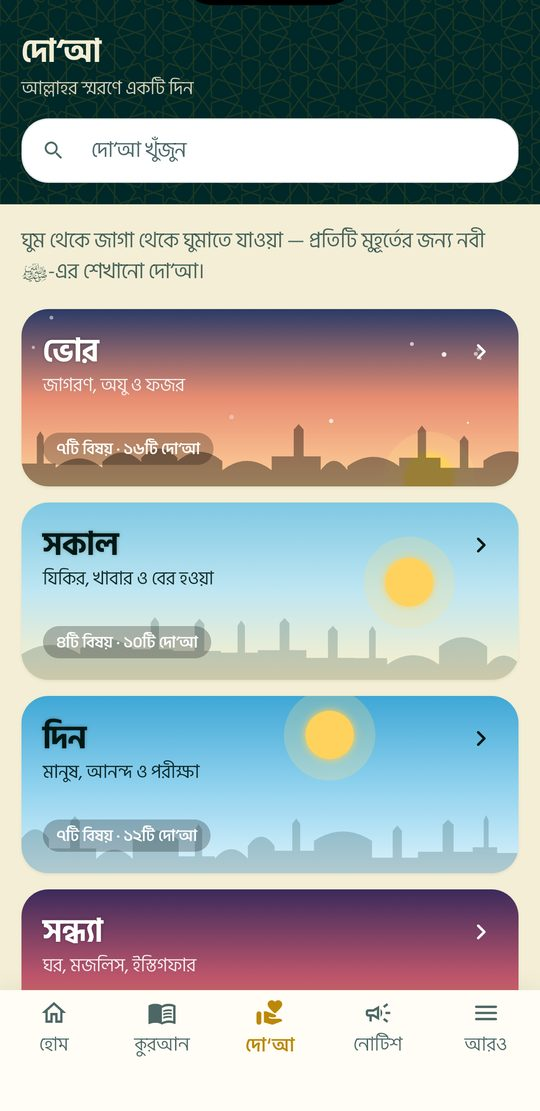
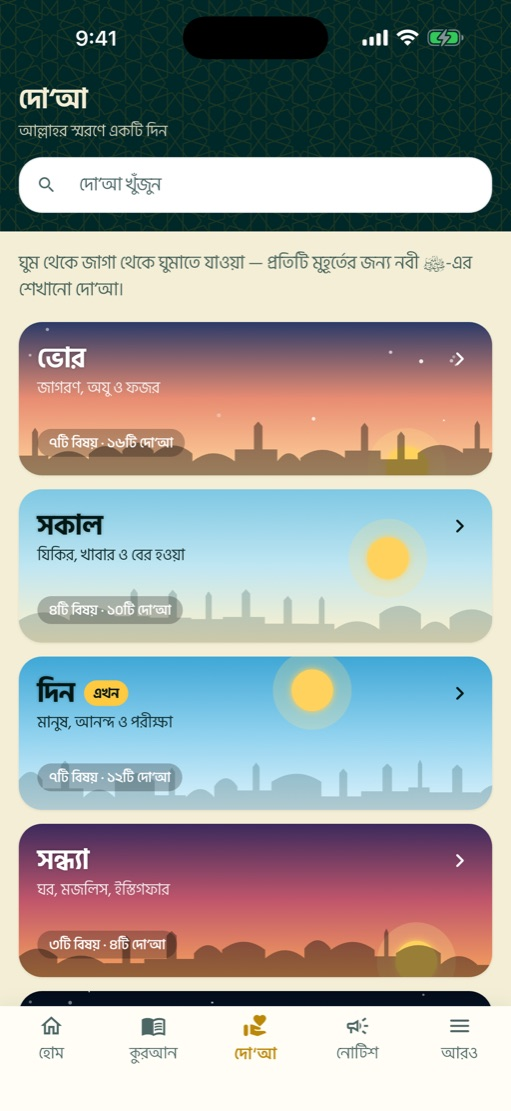
Website: equal-size screenshots, light/dark drag-to-compare section
- Fresh Dua screenshots at the same size as the others; screenshots
  share one aspect ratio so they line up
- 'Light by day, dark by night': one phone, light on the left and dark
  on the right, with a draggable divider (mouse, touch, arrow keys) and
  a short sweep the first time it scrolls into view

diff --git a/docs/index.html b/docs/index.html
@@ -97,7 +97,28 @@
     .shots { display: flex; gap: 22px; justify-content: center; flex-wrap: wrap; }
     .shot { width: 230px; text-align: center; }
     .shot .frame { border-radius: 30px; padding: 8px; background: #0c0c0c; box-shadow: 0 16px 36px rgba(0,40,40,.25); }
-    .shot img { border-radius: 23px; }
+    .shot img { border-radius: 23px; width: 100%; aspect-ratio: 511 / 1111; object-fit: cover; object-position: top; }
+
+    /* ---------- light / dark compare ---------- */
+    .theme-sec { text-align: center; }
+    .compare { position: relative; width: min(330px, 84vw); margin: 0 auto; border-radius: 40px; padding: 10px; background: #0c0c0c;
+      box-shadow: 0 30px 60px rgba(0,40,40,.28); touch-action: pan-y; user-select: none; -webkit-user-select: none; }
+    .compare-view { position: relative; border-radius: 31px; overflow: hidden; aspect-ratio: 511 / 1111; cursor: ew-resize; }
+    .compare-view img { position: absolute; inset: 0; width: 100%; height: 100%; object-fit: cover; object-position: top; pointer-events: none; }
+    .compare-view .dark { clip-path: inset(0 0 0 var(--pos, 50%)); }
+    .compare-bar { position: absolute; top: 0; bottom: 0; left: var(--pos, 50%); width: 3px; margin-left: -1.5px; background: var(--gold-light);
+      box-shadow: 0 0 12px rgba(0,0,0,.35); pointer-events: none; }
+    .compare-knob { position: absolute; top: 50%; left: var(--pos, 50%); width: 52px; height: 52px; margin: -26px 0 0 -26px; border-radius: 50%;
+      background: var(--gold); color: #fff; display: grid; place-items: center; box-shadow: 0 6px 18px rgba(0,0,0,.35);
+      border: 3px solid var(--gold-light); pointer-events: none; transition: transform .2s ease; }
+    .compare.dragging .compare-knob { transform: scale(1.12); }
+    .compare-knob svg { width: 26px; height: 26px; }
+    .compare-label { position: absolute; bottom: 22px; padding: 4px 12px; border-radius: 20px; font-size: 12px; font-weight: 600; pointer-events: none;
+      background: rgba(0,0,0,.45); color: #fff; backdrop-filter: blur(4px); transition: opacity .3s; }
+    .compare-label.l { left: 22px; } .compare-label.r { right: 22px; }
+    .compare input[type=range] { position: absolute; inset: 0; opacity: 0; width: 100%; height: 100%; margin: 0; pointer-events: none; }
+    .compare:focus-within .compare-knob { outline: 3px solid var(--gold-light); outline-offset: 3px; }
+    .compare-hint { margin-top: 18px; font-size: 14px; opacity: .7; }
     .shot span { display: block; margin-top: 12px; font-size: 14px; font-weight: 500; }
 
     /* ---------- download ---------- */
@@ -355,6 +376,28 @@
     </div>
   </section>
 
+  <!-- ============ LIGHT / DARK ============ -->
+  <section id="themes" class="theme-sec" style="padding-top:0">
+    <div class="wrap">
+      <div class="section-title">
+        <h2 data-i18n="themeTitle">Light by day, dark by night</h2>
+        <p data-i18n="themeSub">A calm cream theme and a deep-green dark theme — or let it follow your phone. Drag to compare.</p>
+      </div>
+      <div class="compare reveal" id="compare">
+        <div class="compare-view">
+          <img class="light" data-shot="home" src="assets/home-en.jpg" alt="Home screen in light theme" loading="lazy" />
+          <img class="dark" data-shot="home-dark" src="assets/home-dark-en.jpg" alt="Home screen in dark theme" loading="lazy" />
+          <span class="compare-label l" data-i18n="themeLight">Light</span>
+          <span class="compare-label r" data-i18n="themeDark">Dark</span>
+          <div class="compare-bar"></div>
+          <div class="compare-knob"><svg viewBox="0 0 24 24" fill="none" stroke="currentColor" stroke-width="2.4" stroke-linecap="round" stroke-linejoin="round"><path d="M9 6l-6 6 6 6M15 6l6 6-6 6"/></svg></div>
+          <input type="range" min="0" max="100" value="50" step="0.1" aria-label="Compare light and dark theme" />
+        </div>
+      </div>
+      <p class="compare-hint" data-i18n="themeHint">← Drag left for dark · right for light →</p>
+    </div>
+  </section>
+
   <!-- ============ DOWNLOAD ============ -->
   <section id="download" style="padding-top:0">
     <div class="wrap">
@@ -558,6 +601,8 @@
       q5: "অ্যান্ড্রয়েড বলছে অ্যাপটি অজানা উৎস থেকে।", qa5: "প্লে স্টোরের বাইরে থেকে ডাউনলোড করলে এটা স্বাভাবিক। APK আমাদের সাইন করা এবং অফিসিয়াল GitHub পেজে প্রকাশিত।",
       privacy: "প্রাইভেসি পলিসি",
       splashTag: "মসজিদের জামাতের সময়",
+      themeTitle: "দিনে লাইট, রাতে ডার্ক", themeSub: "শান্ত ক্রিম থিম আর গাঢ় সবুজ ডার্ক থিম — অথবা ফোনের সেটিং অনুযায়ী। টেনে তুলনা করুন।",
+      themeLight: "লাইট", themeDark: "ডার্ক", themeHint: "← বাঁয়ে টানুন ডার্ক · ডানে লাইট →",
       f13: "অ্যাপেই দিকনির্দেশনা", f13d: "যেকোনো মসজিদে হেঁটে বা গাড়িতে যাওয়ার পথ ম্যাপে দেখুন — দূরত্ব, সময় ও পরের জামাতসহ। চাইলে Google Maps-এ চালিয়ে যান।",
       f14: "১০,০০০+ মসজিদ, প্রতিবেশীদের হাতে হালনাগাদ", f14d: "৬৪ জেলার মসজিদ। কাছে থাকেন? “আমি জামাতের সময় আপডেট করতে চাই” চাপুন — আপনি ২ কিমির মধ্যে আছেন কি না অ্যাপ যাচাই করবে — আর সবার জন্য সময় সঠিক রাখুন। মসজিদ নেই? যোগ করুন।",
       f15: "দরকারি নোটিফিকেশন", f15d: "নোটিশ ও চ্যানেলের বার্তা এক জায়গায়, নতুনগুলো পড়া না হওয়া পর্যন্ত চিহ্নিত, ঘণ্টায় সংখ্যা — আর অ্যাপ বন্ধ থাকলেও পুশ নোটিফিকেশন।",
@@ -597,6 +642,54 @@
     let saved = null;
     try { saved = localStorage.getItem("lang"); } catch (e) {}
     if (saved === "bn" || (!saved && (navigator.language || "").startsWith("bn"))) setLang(true);
+
+    // ---- Light / dark compare: drag the bar (or use arrow keys) ----
+    (() => {
+      const box = document.getElementById("compare");
+      const range = box.querySelector("input");
+      const labels = box.querySelectorAll(".compare-label");
+      let anim = null;
+      const set = v => {
+        v = Math.max(0, Math.min(100, v));
+        box.style.setProperty("--pos", v + "%");
+        range.value = v;
+        labels[0].style.opacity = v < 12 ? 0 : 1;
+        labels[1].style.opacity = v > 88 ? 0 : 1;
+      };
+      set(50);
+      range.addEventListener("input", () => { if (anim) cancelAnimationFrame(anim); set(+range.value); });
+      // Drag anywhere on the screen image (mouse or finger); vertical swipes still scroll.
+      const view = box.querySelector(".compare-view");
+      const at = e => { const r = view.getBoundingClientRect(); return (e.clientX - r.left) / r.width * 100; };
+      let dragging = false;
+      view.addEventListener("pointerdown", e => {
+        dragging = true; if (anim) cancelAnimationFrame(anim);
+        view.setPointerCapture(e.pointerId); box.classList.add("dragging"); set(at(e));
+      });
+      view.addEventListener("pointermove", e => { if (dragging) set(at(e)); });
+      const end = () => { dragging = false; box.classList.remove("dragging"); };
+      view.addEventListener("pointerup", end);
+      view.addEventListener("pointercancel", end);
+      // A gentle hint the first time it comes into view: sweep left, right, back.
+      const sweep = () => {
+        if (matchMedia("(prefers-reduced-motion: reduce)").matches) return;
+        const keys = [[0, 50], [700, 22], [1500, 78], [2200, 50]];
+        const t0 = performance.now();
+        const step = now => {
+          const t = now - t0;
+          let i = keys.findIndex(k => k[0] > t);
+          if (i === -1) { set(50); return; }
+          const [ta, va] = keys[i - 1], [tb, vb] = keys[i];
+          const k = (t - ta) / (tb - ta), e = k < .5 ? 2 * k * k : 1 - Math.pow(-2 * k + 2, 2) / 2;
+          set(va + (vb - va) * e);
+          anim = requestAnimationFrame(step);
+        };
+        anim = requestAnimationFrame(step);
+      };
+      new IntersectionObserver((es, o) => es.forEach(e => {
+        if (e.isIntersecting) { setTimeout(sweep, 500); o.disconnect(); }
+      }), { threshold: 0.5 }).observe(box);
+    })();
 
     // ---- Butter-smooth scrolling (Lenis); anchor links glide too ----
     const reduce = matchMedia("(prefers-reduced-motion: reduce)").matches;
